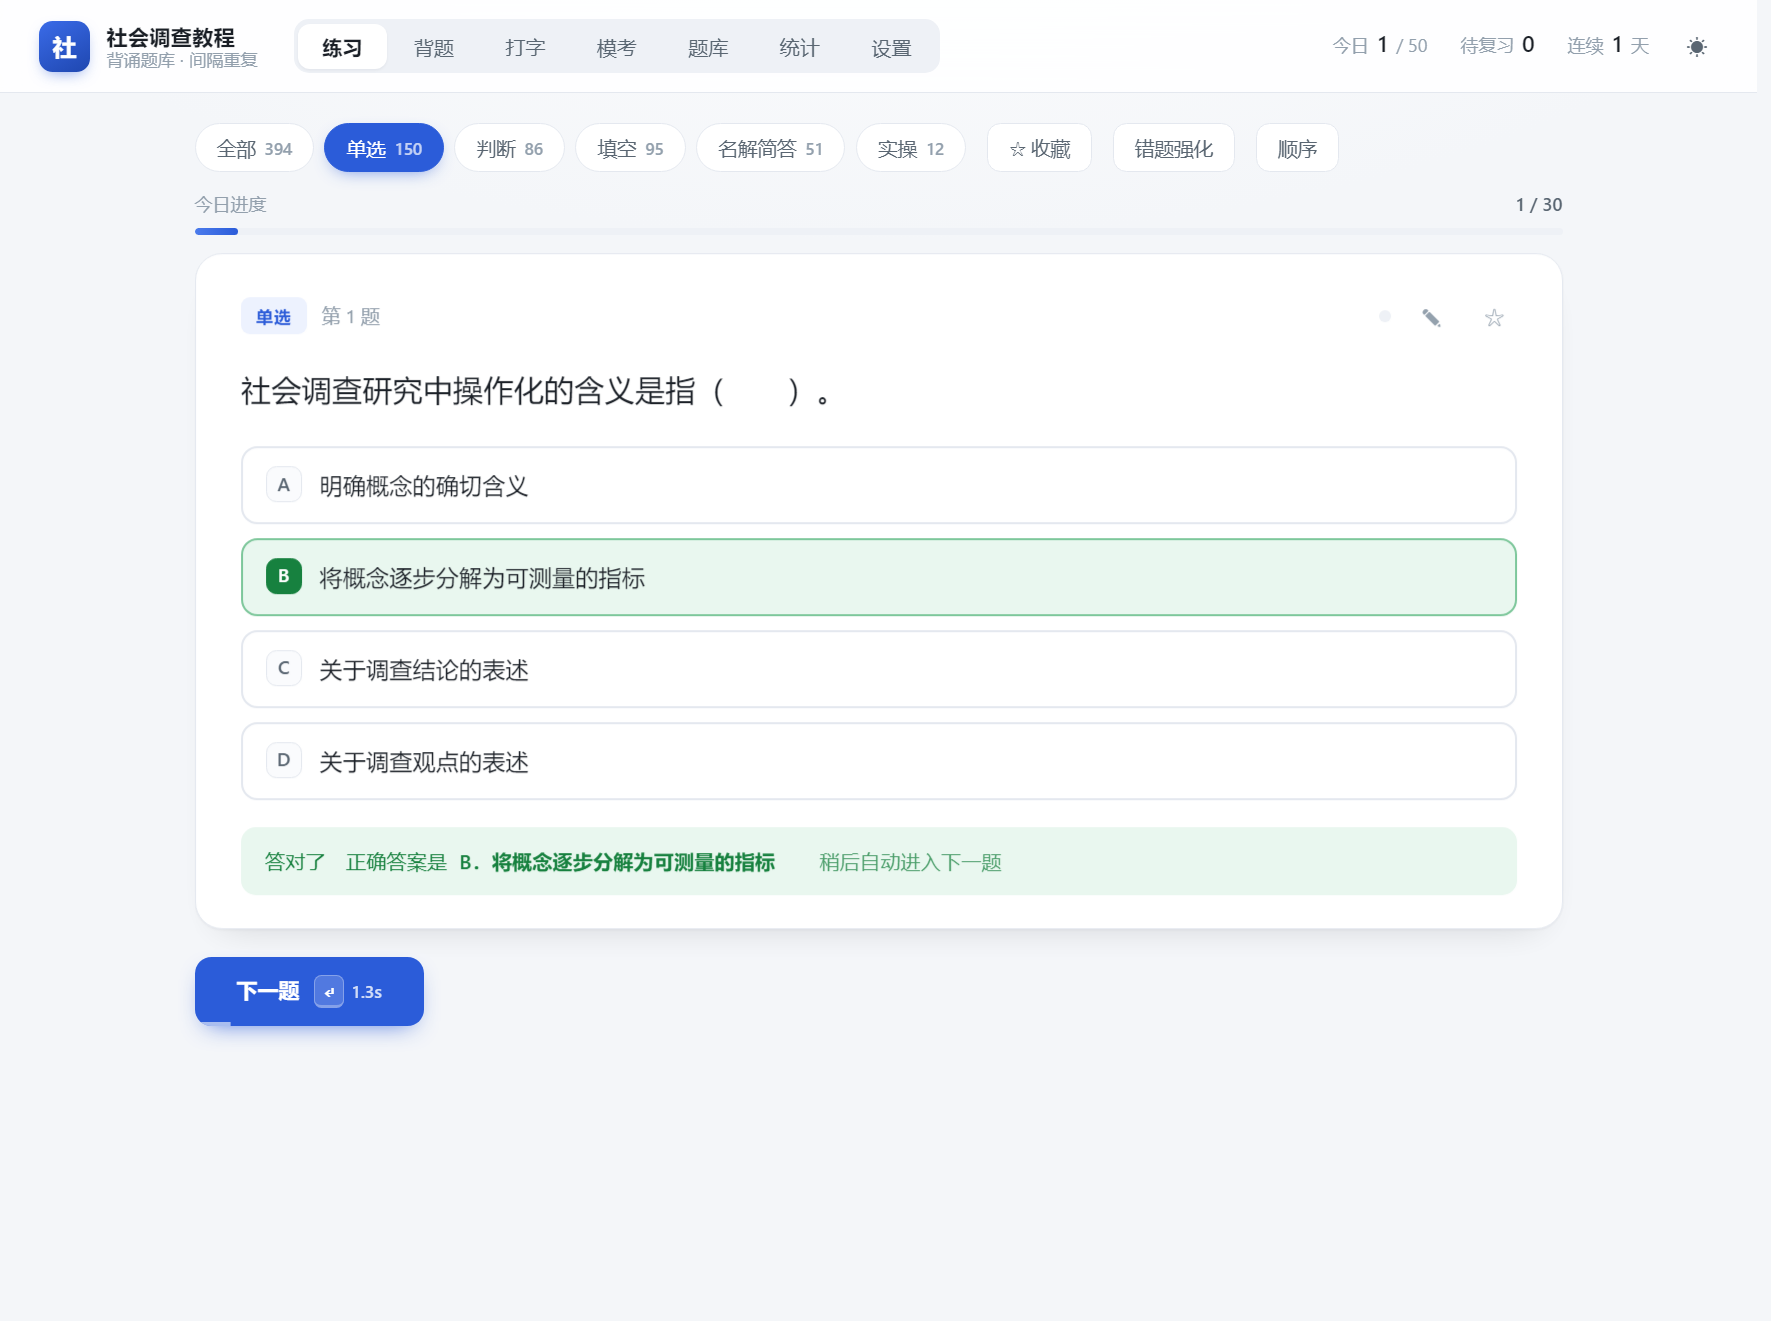
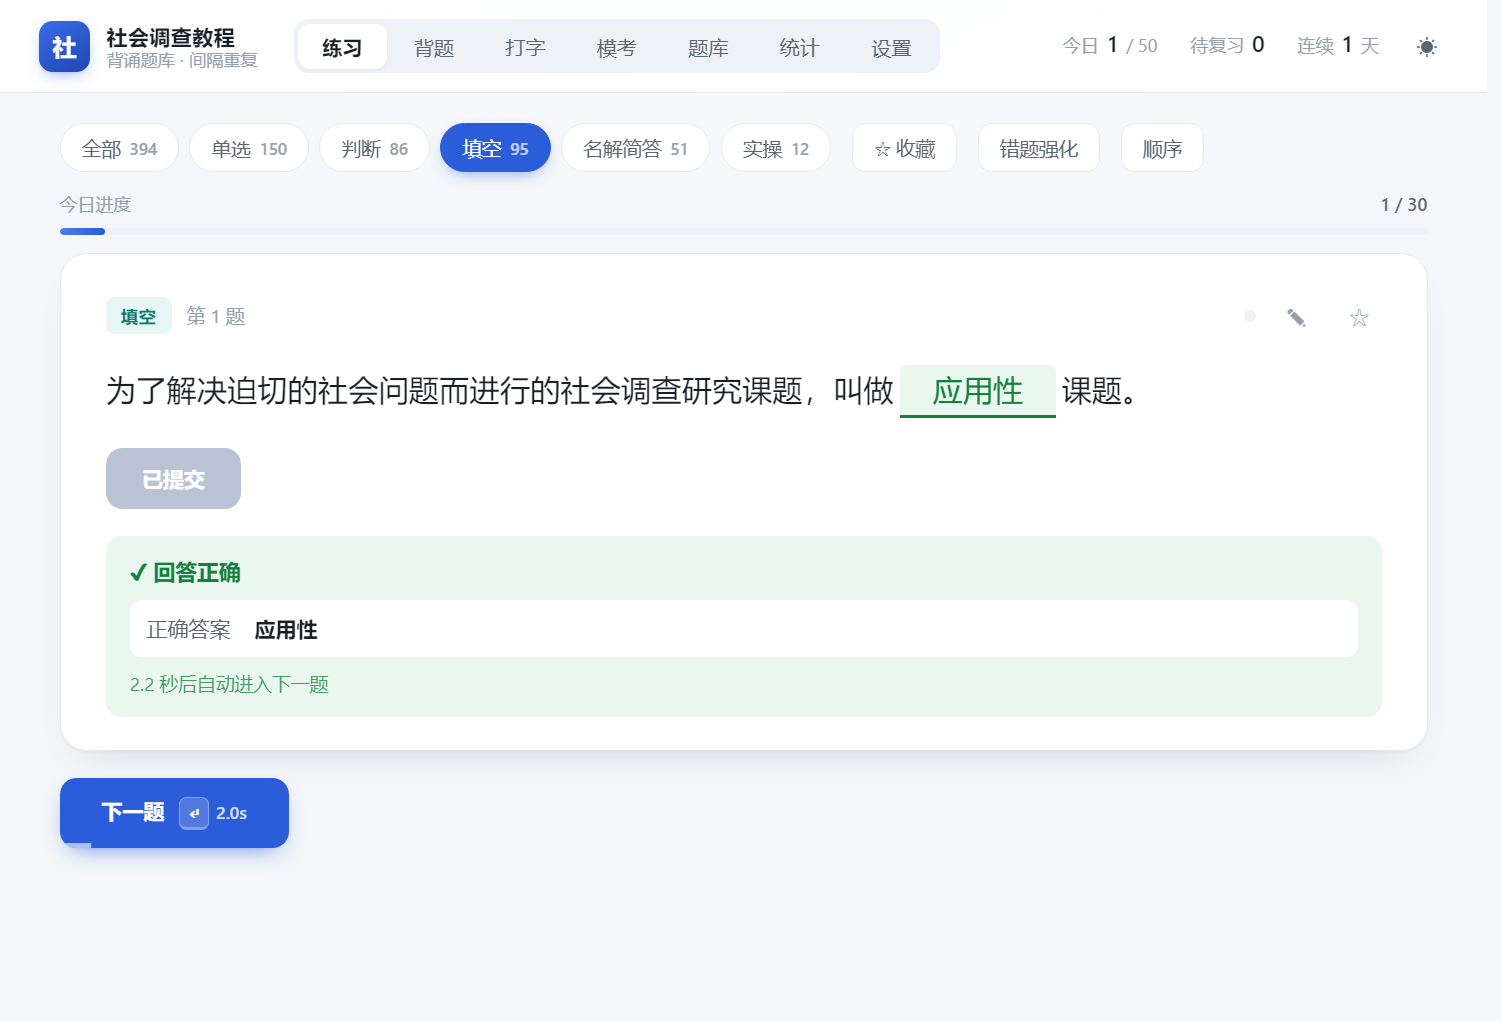
docs: 更新填空判分说明与两张反馈配图（1.9.1）

diff --git a/README.md b/README.md
@@ -35,7 +35,7 @@ Windows 64 位：到 [Releases](https://github.com/qicongwei/social-survey-quiz/
 - **按题型自动匹配交互**：单选 / 判断 / 填空直接作答并即时判分；名词解释 / 实操题先默想再展开参考答案，自评「不会 / 模糊 / 掌握」
 - **答对也报正确答案**：单选 / 判断 / 填空答对后照样给出正确答案（填空逐空列出），不用凭记忆确认自己对了没
 - **答对自动跳题，答错留住**：答对后停顿片刻自动进入下一题（按钮上有**秒数倒计时**、底部有进度条；普通题 1.5 秒、填空 2.2 秒），答错不跳，留时间看正确答案，自己按「下一题」或 `Enter` 再走；可在设置里关掉自动跳题
-- **填空逐空对照**：提交后明确给出「填空正确 / 填空错误」，并逐空列出**你填的**与**正确答案**，对不上的空标红、正确的空标绿；错几个空、对几个空一眼可见
+- **填空逐空对照**：提交后给出「✔ 回答正确 / ✘ 回答错误」与**正确答案**（对错都给）；多空题再逐空列出**你填的**与**正确的**，错的红、对的一目了然。判分**严格**：规范化后完全一致才算对（答案里的括号别名如「样本容量（样本规模）」两种写法都认），少打或多打一个字都算错，不会「填了就给分」
 - **顺序 / 乱序**：工具栏一个按钮切换，对所有练习模式（题型、章节、收藏、错题强化、额外加练）统一生效，选择随进度保存
 - **额外加练不重复**：本轮已经出现过的题不会再被「再来 10 题」抽到，全练完了才允许从头再来
 - **背题模式**：一屏一题，**答案直接展示**（可切「遮盖答案」改回先自测再核对），看完按「不会 / 模糊 / 会了」打分，自动翻下一题。**只记遍数、不改动复习排程**，适合考前快速刷遍数；一轮结束给出通过率，并可「只背不会的」
